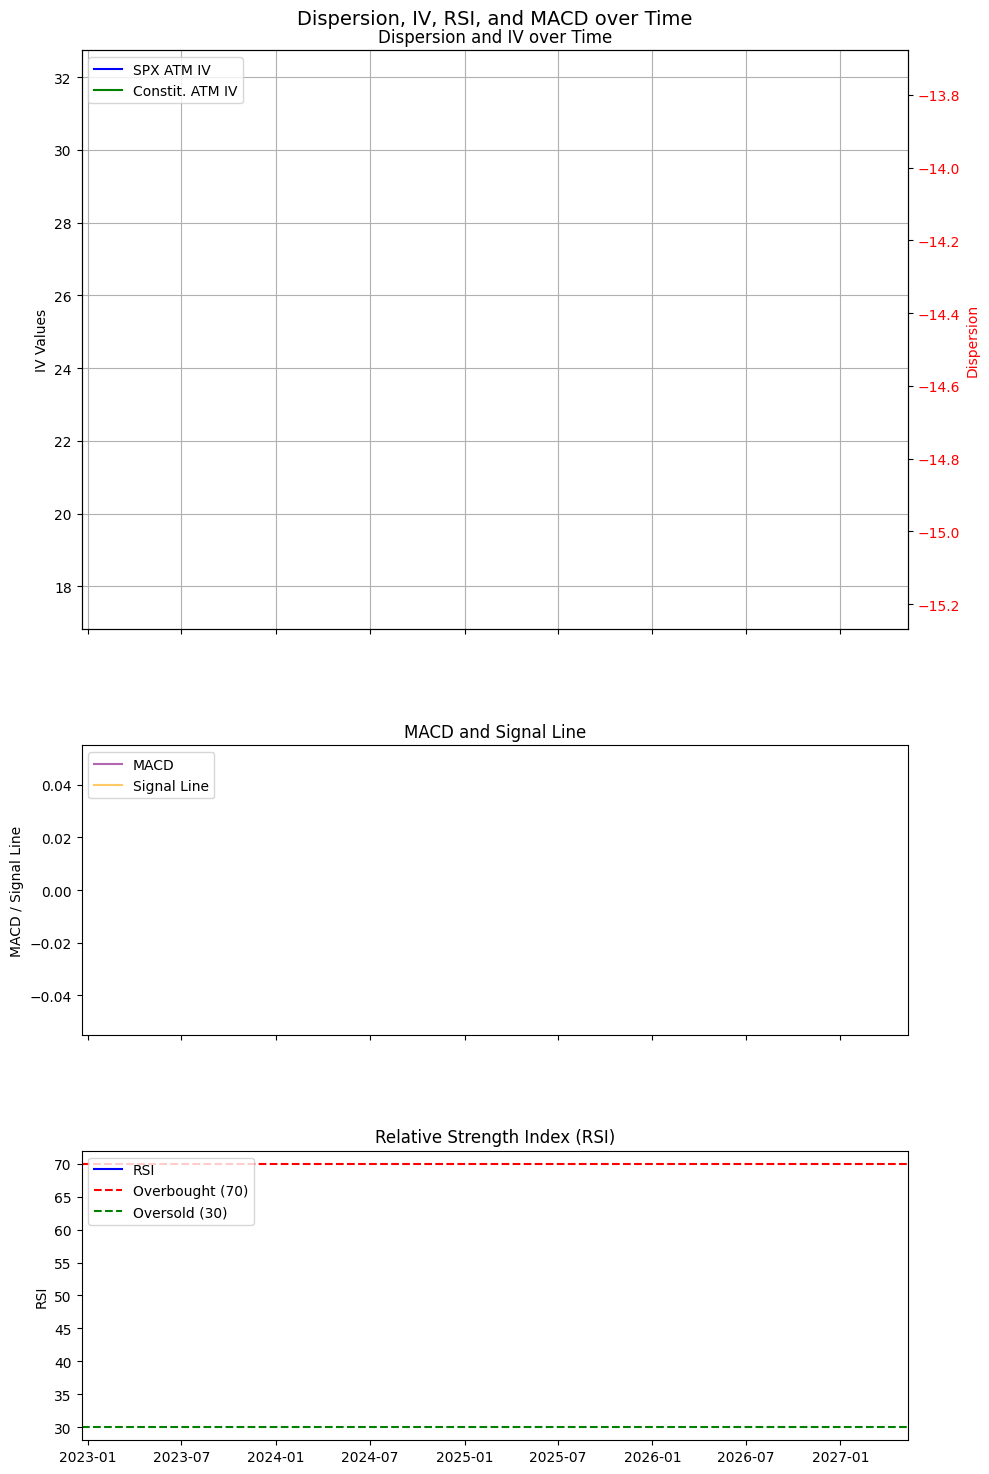
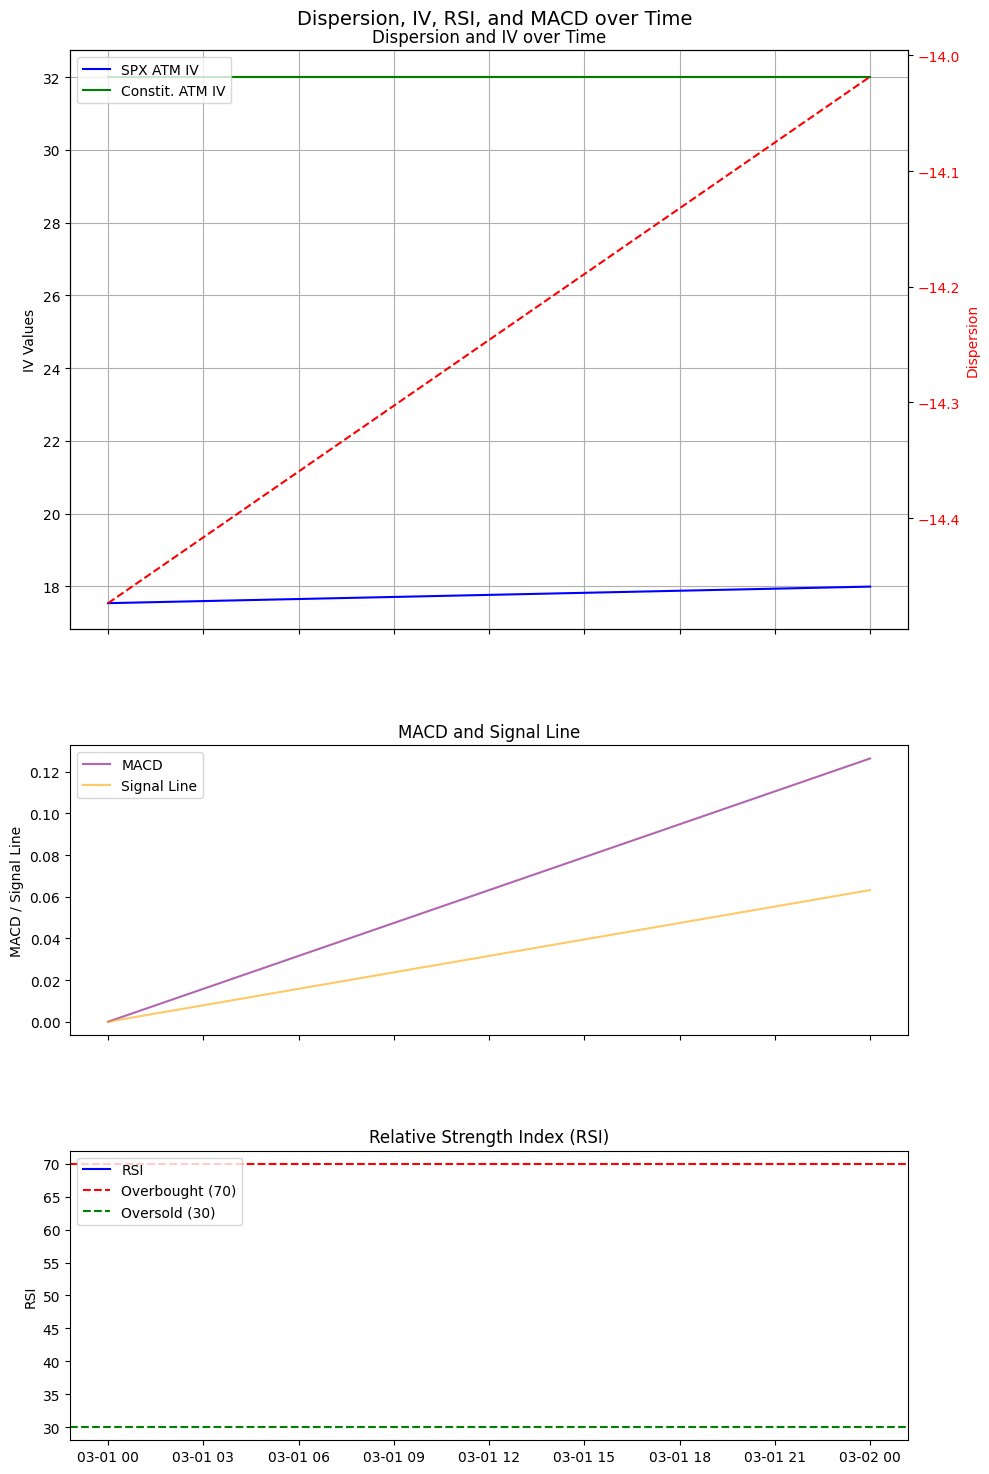
fixed

diff --git a/dispersion_alpaca.py b/dispersion_alpaca.py
@@ -373,8 +373,8 @@ if __name__=="__main__":
     exp = get_next_third_friday()
     spx_iv = fetch_spx_iv(exp)
 
-    # implied_vols = get_atm_constituent_options(sp, exp)
-    # implied_vols.to_pickle(r'C:\Users\Cassel Robson\skewmonitor\venv\skewmonitor\implied_vols.pkl')
+    implied_vols = get_atm_constituent_options(sp, exp)
+    implied_vols.to_pickle(r'C:\Users\Cassel Robson\skewmonitor\venv\skewmonitor\implied_vols.pkl')
     implied_vols = pd.read_pickle(r'C:\Users\Cassel Robson\skewmonitor\venv\skewmonitor\implied_vols.pkl')
     mkt_caps = pd.read_excel(r"C:\Users\Cassel Robson\skewmonitor\venv\skewmonitor\market_caps\market_caps.xlsx", sheet_name='Market Caps')
     mkt_caps = mkt_caps[["Ticker", 'Market Cap']].rename(columns={'Ticker': 'Symbol'}).set_index('Symbol')
